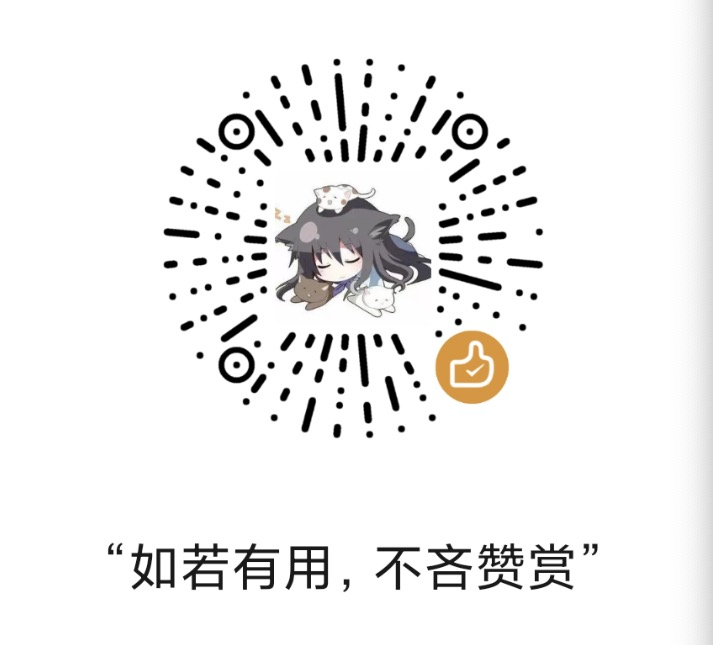
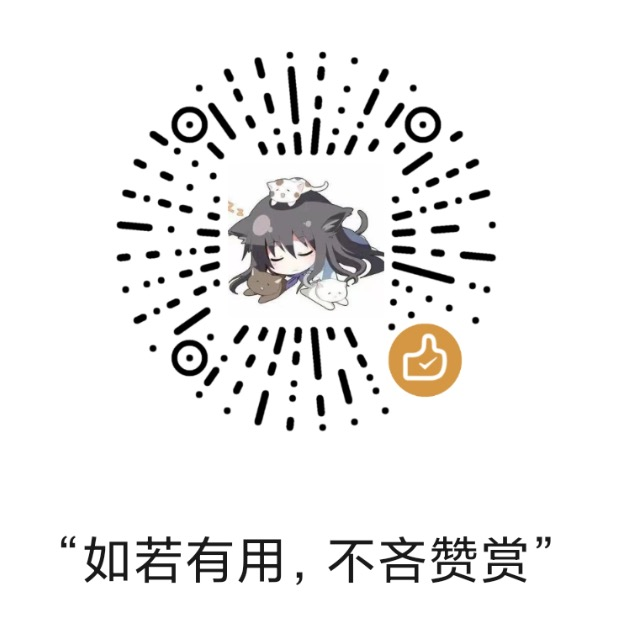
👋my geektime

diff --git a/README_US.md b/README_US.md
@@ -31,7 +31,7 @@ browser web url:  http://127.0.0.1:8090
   <img
     alt="sponsor"
     src="docs/images/sponsor.jpg"
-    width="256px"
+    width="356px"
   />
 </picture>
 

diff --git a/README.md b/README.md
@@ -51,6 +51,6 @@ docker-compose up -d
   <img
     alt="sponsor"
     src="docs/images/sponsor.jpg"
-    width="256px"
+    width="356px"
   />
 </picture>
